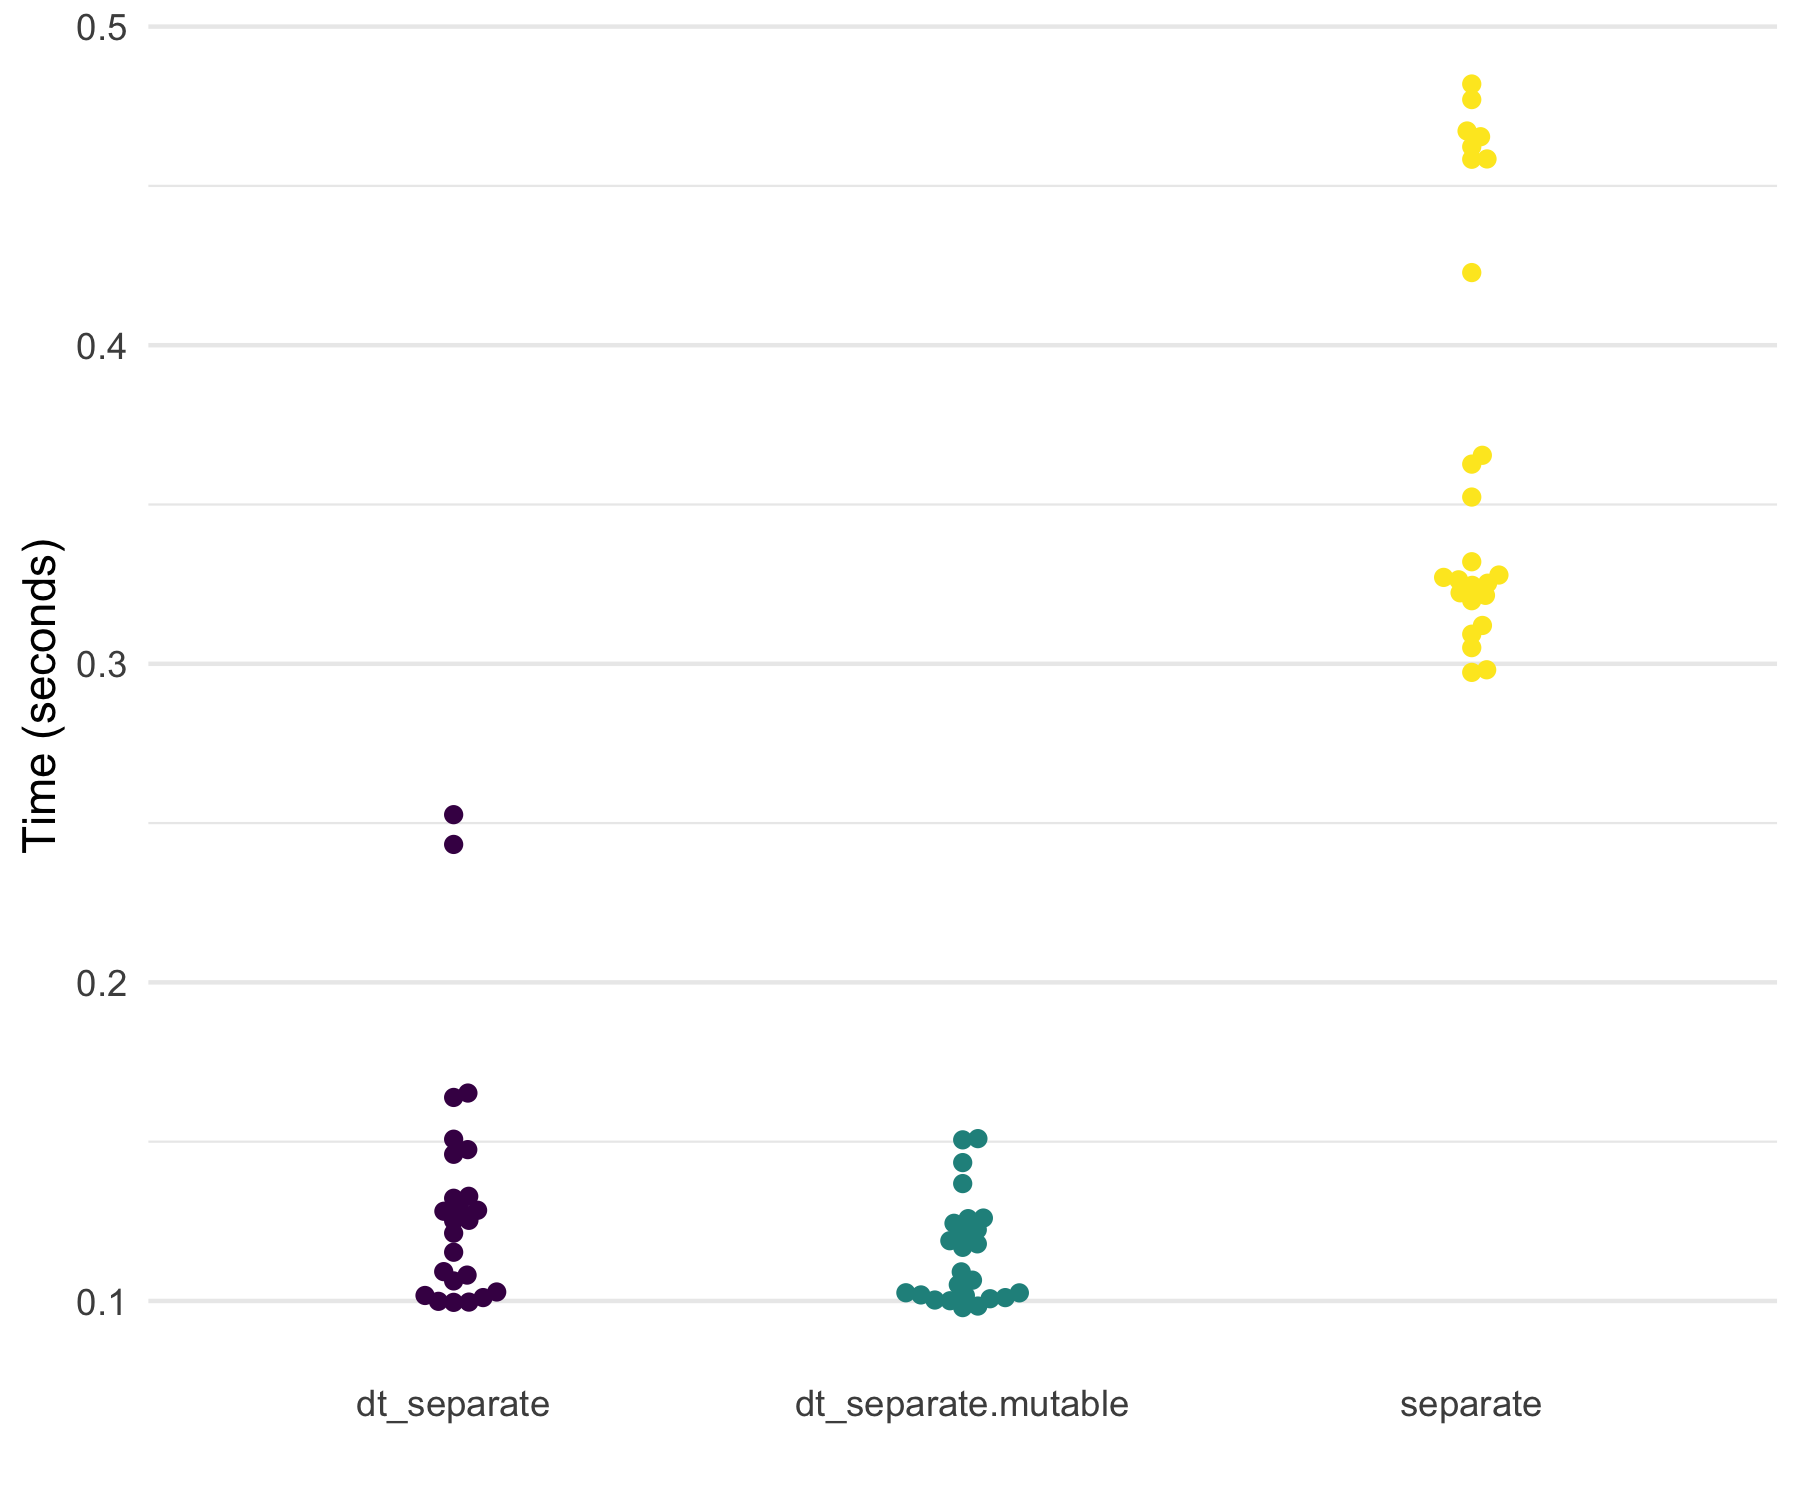
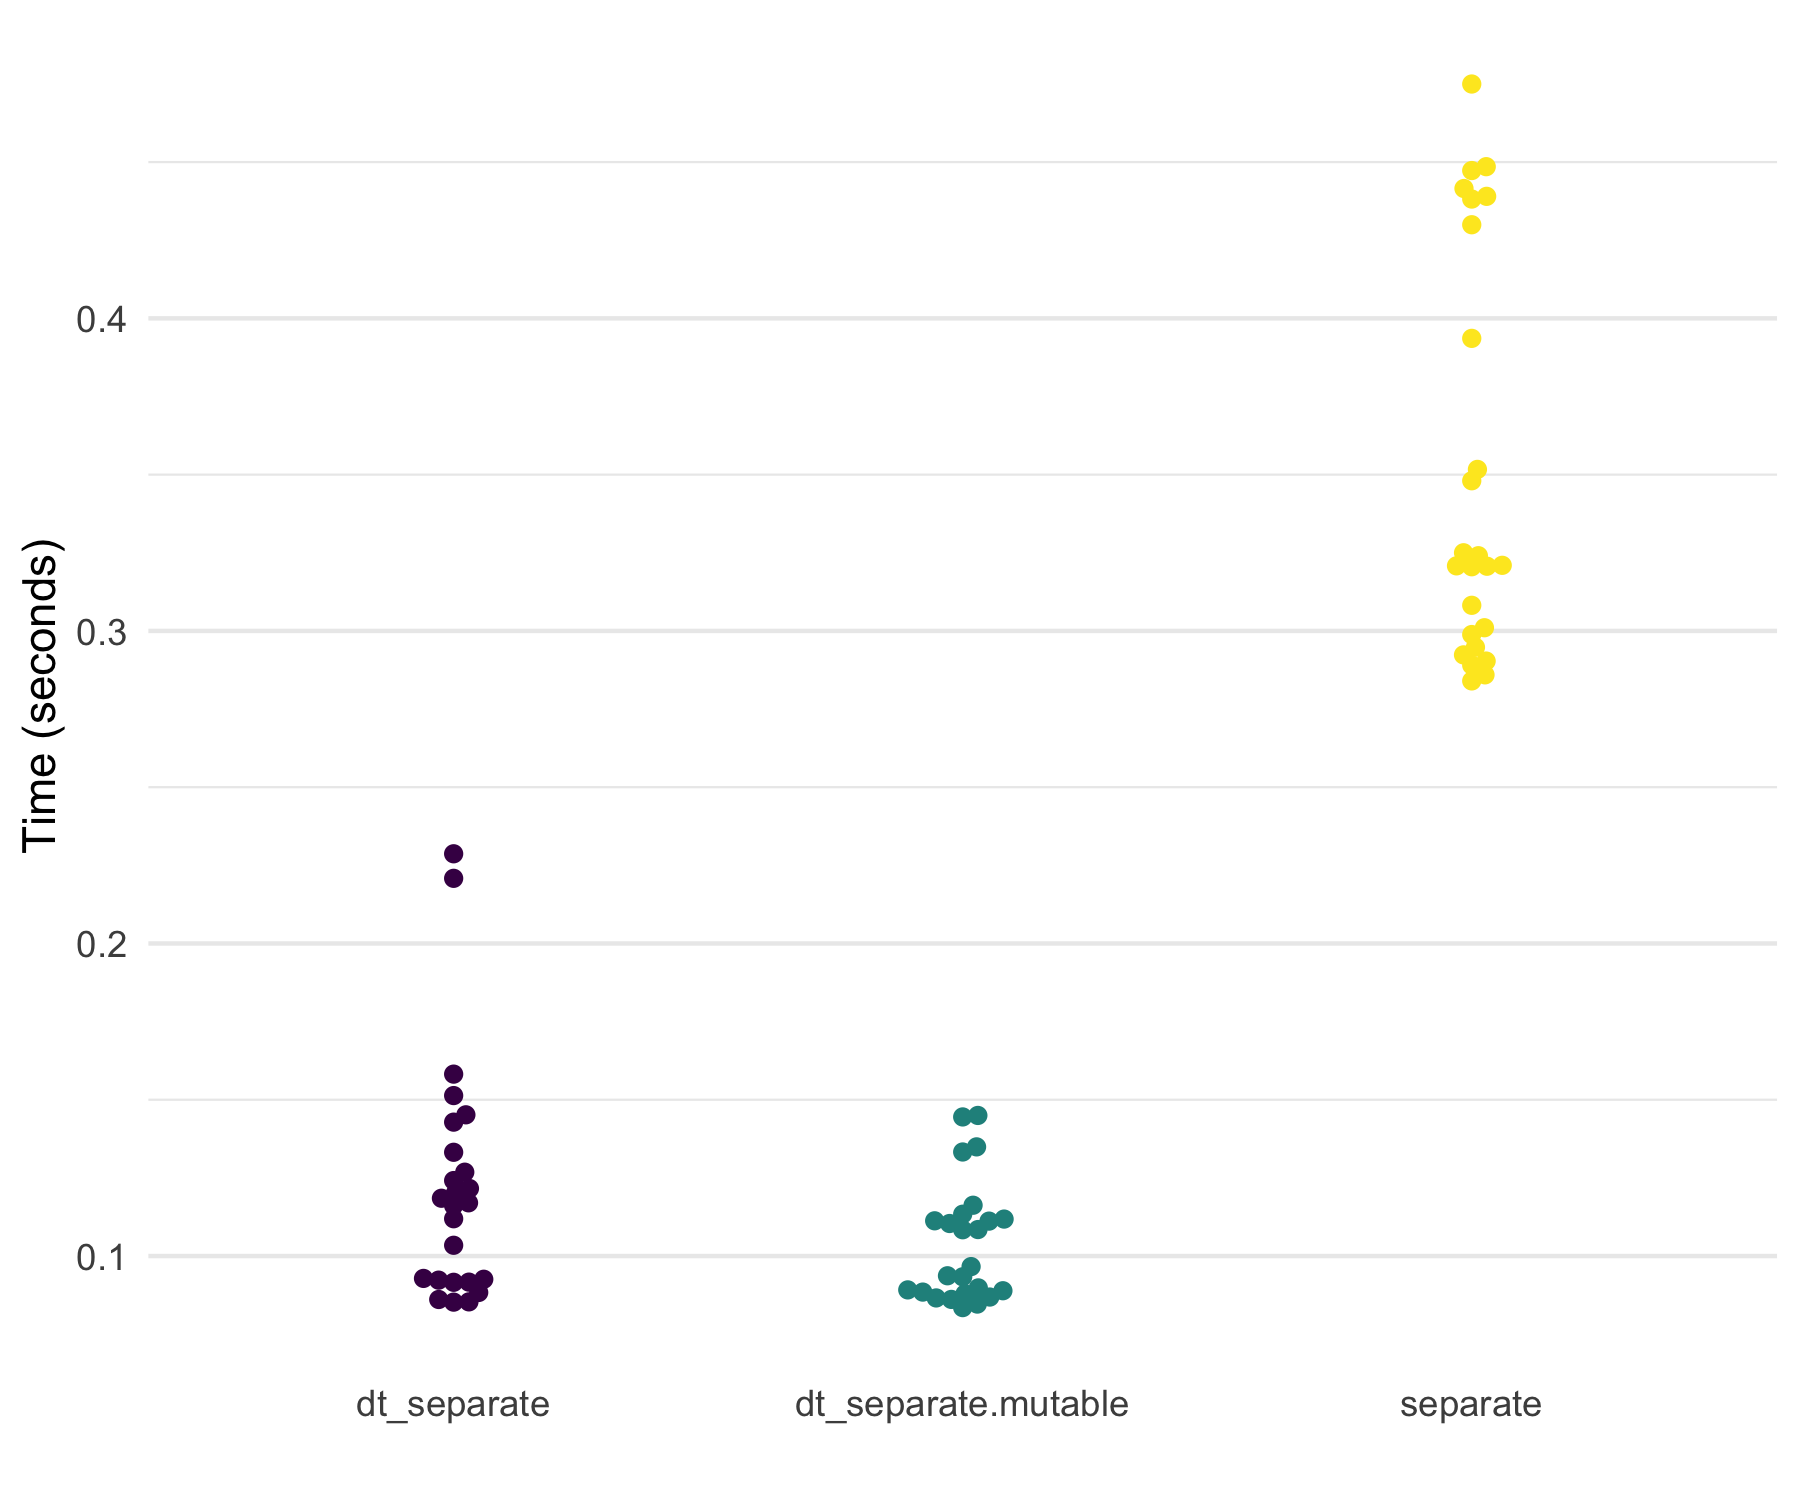
updated readme

diff --git a/README.md b/README.md
@@ -1,7 +1,7 @@
 
 <!-- README.md is generated from README.Rmd. Please edit that file -->
 
-# `tidyfast v0.1.4` <img src=".graphics/tidyfast_hex.png" align="right" width="30%" height="30%" />
+# `tidyfast v0.1.5` <img src=".graphics/tidyfast_hex.png" align="right" width="30%" height="30%" />
 
 <!-- badges: start -->
 
@@ -48,6 +48,12 @@ The current functions include:
     column 1 would have “A” and 2 would have “B”). It is built on
     `data.table::tstrsplit()`. This is not well tested yet and lacks
     some functionality of `tidyr::separate()`.
+
+**Count** and **Uncount** (similar to `tidyr::uncount()` and
+`dplyr::count()`)
+
+  - `dt_count()` for fast counting by group(s)
+  - `dt_uncount()` for creating full data from a count table
 
 *Package is still in active development.*
 
@@ -205,9 +211,9 @@ built on `data.table::fifelse()`.
     #> # A tibble: 3 x 3
     #>   expression     median mem_alloc
     #>   <chr>        <bch:tm> <bch:byt>
-    #> 1 case_when     129.2ms   148.8MB
-    #> 2 dt_case_when   34.8ms    34.3MB
-    #> 3 fifelse        34.2ms    34.3MB
+    #> 1 case_when     127.5ms   148.8MB
+    #> 2 dt_case_when   35.9ms    34.3MB
+    #> 3 fifelse        34.3ms    34.3MB
 
 ## Fill
 
@@ -315,8 +321,8 @@ marks3 <-
     #> # A tibble: 2 x 3
     #>   expression                                    median mem_alloc
     #>   <bch:expr>                                  <bch:tm> <bch:byt>
-    #> 1 tidyr::fill(dplyr::group_by(df3, id), x, y)   64.3ms    30.9MB
-    #> 2 tidyfast::dt_fill(dt3, x, y, id = list(id))   21.1ms    29.1MB
+    #> 1 tidyr::fill(dplyr::group_by(df3, id), x, y)   59.8ms    30.9MB
+    #> 2 tidyfast::dt_fill(dt3, x, y, id = list(id))   21.7ms    29.1MB
 
 ## Separate
 
@@ -358,9 +364,38 @@ than `tidyr::separate()`.
     #> # A tibble: 3 x 3
     #>   expression            median mem_alloc
     #>   <chr>               <bch:tm> <bch:byt>
-    #> 1 separate               328ms    11.6MB
-    #> 2 dt_separate            125ms    30.6MB
-    #> 3 dt_separate-mutable    109ms    26.7MB
+    #> 1 separate               321ms    11.6MB
+    #> 2 dt_separate            117ms    30.6MB
+    #> 3 dt_separate-mutable   96.6ms    26.7MB
+
+## Count and Uncount
+
+The following examples show how count and uncount can work. We’ll use
+the `dt` data table from the nesting examples.
+
+``` r
+counted <- dt_count(dt, grp)
+counted
+#>    grp     N
+#> 1:   2 33217
+#> 2:   3 33453
+#> 3:   1 33330
+
+uncounted <- dt_uncount(counted, N)
+print(uncounted)
+#>         grp
+#>      1:   2
+#>      2:   2
+#>      3:   2
+#>      4:   2
+#>      5:   2
+#>     ---    
+#>  99996:   1
+#>  99997:   1
+#>  99998:   1
+#>  99999:   1
+#> 100000:   1
+```
 
 ## Note
 
